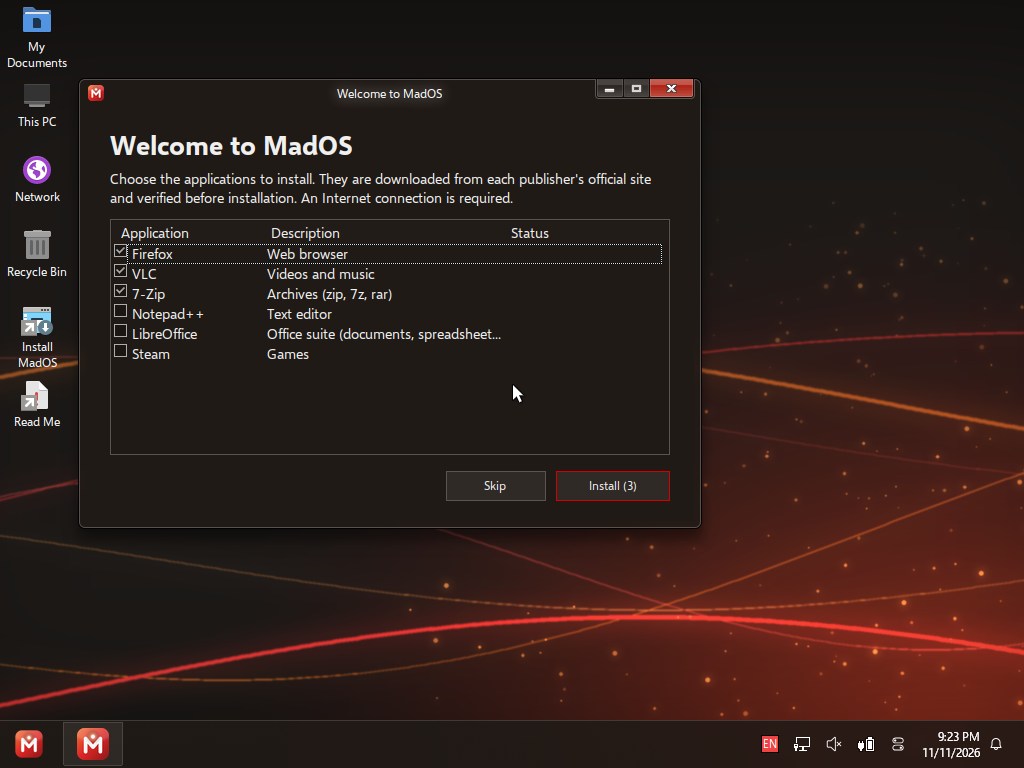
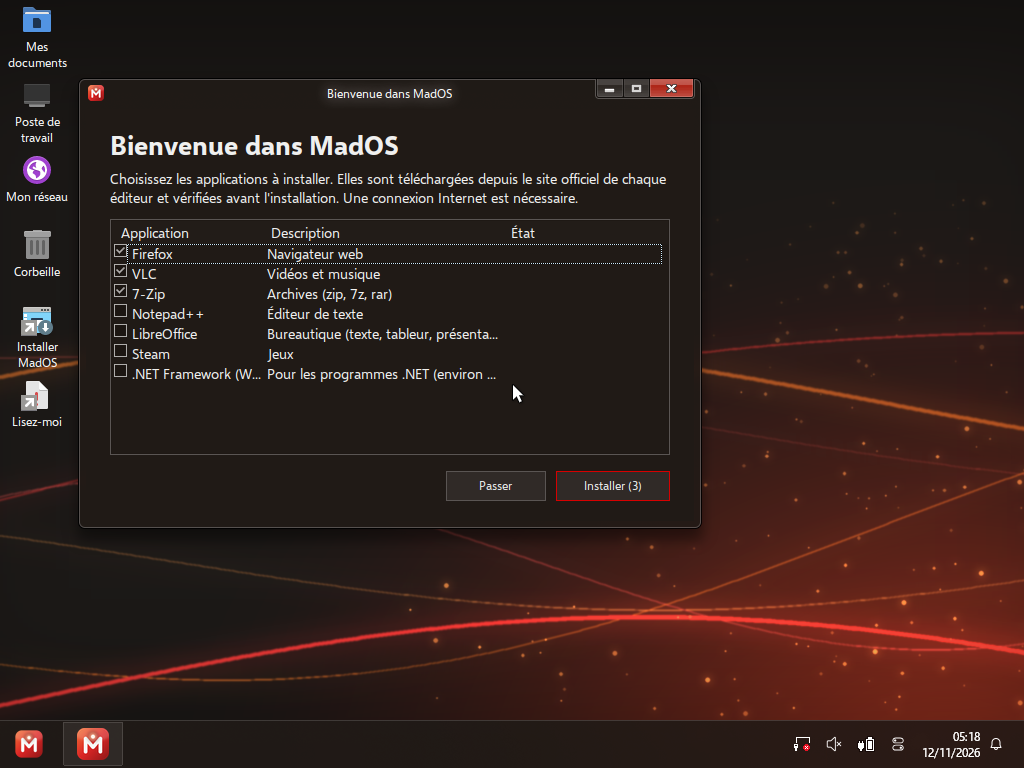
[MADOS] README : mode clair, francais, .NET, VirtIO, section anglaise

diff --git a/README.md b/README.md
@@ -21,13 +21,18 @@ Windows en 64 bits) et y ajoute sa propre expérience :
   un rapport de diagnostic (matériel, identifiants des périphériques…).
   Dans MadOS, c'est coupé par défaut ; vous pouvez l'activer dans le panneau
   Système, avec un texte qui dit exactement ce qui part et où.
-- **En français par défaut**, avec le clavier AZERTY (une autre langue reste
-  au choix à l'installation).
+- **En français dès le premier écran**, avec le clavier AZERTY : bureau,
+  menu Démarrer, applications. Une autre langue reste au choix à
+  l'installation.
+- **Mode sombre « Braise » ou clair « Lumière »**, au choix dans
+  *Apparence* (menu Démarrer), appliqué instantanément.
 - **« Bienvenue dans MadOS »** : au premier démarrage, cochez les applications
-  que vous voulez (Firefox, VLC, 7-Zip, Notepad++, LibreOffice, Steam). Elles
-  sont téléchargées depuis le site officiel de chaque éditeur et **vérifiées
-  avant l'installation** (signature numérique de l'éditeur, ou empreinte
-  SHA-256). Rien n'est préinstallé de force.
+  que vous voulez (Firefox, VLC, 7-Zip, Notepad++, LibreOffice, Steam, .NET).
+  Elles sont téléchargées depuis le site officiel de chaque éditeur et
+  **vérifiées avant l'installation** (signature numérique de l'éditeur, ou
+  empreinte SHA-256). Rien n'est préinstallé de force.
+- **Prêt pour les machines virtuelles** : disque VirtIO (QEMU, KVM, Proxmox),
+  OpenGL et Vulkan logiciels (Mesa) installables au premier démarrage.
 - **Plus rapide à démarrer** : le menu de démarrage ne fait plus attendre
   3 secondes ; appuyez sur une touche (F8…) pendant le démarrage pour l'ouvrir.
 - **Plus stable** : correction d'une condition de course dans le chargeur de
@@ -39,6 +44,8 @@ Windows en 64 bits) et y ajoute sa propre expérience :
 | Installation en français | Choix des applications |
 | <img src="media/mados/screenshots/menu-demarrer.png" alt="Menu Démarrer" width="380"> | <img src="media/mados/screenshots/menu-demarrage.png" alt="Menu de démarrage" width="380"> |
 | Menu Démarrer | Menu de démarrage (sur demande) |
+| <img src="media/mados/screenshots/mode-clair.png" alt="Mode clair Lumière" width="380"> | <img src="media/mados/screenshots/a-propos.png" alt="À propos de MadOS" width="380"> |
+| Mode clair « Lumière » | À propos de MadOS |
 
 ## Essayer MadOS
 
@@ -65,8 +72,9 @@ Téléchargez la dernière version dans
 | Taille installée | ~510 Mo |
 
 Applications testées (installation et lancement) : Firefox, VLC, 7-Zip,
-Notepad++, LibreOffice, Steam. Discord ne s'installe pas encore (il exige le
-.NET Framework 4.5).
+Notepad++, LibreOffice, Steam. Discord exige le .NET Framework 4.5 : il est
+maintenant proposé dans « Bienvenue » (Wine Mono), mais pas encore testé avec
+Discord.
 
 ## Construire MadOS
 
@@ -95,8 +103,21 @@ commits séparés, pour pouvoir être repris par LiberNT.
 
 ---
 
-**English.** MadOS is a free NT operating system based on LiberNT and ReactOS,
-with its own "Ember" look, diagnostic data off by default, French by default,
-a first-run app picker that downloads and verifies applications from their
-publishers, and a few fixes (loader race, release build). Experimental: try it
-in a virtual machine. GPL-3.0.
+## English
+
+MadOS is a free NT operating system based on [LiberNT](https://github.com/LiberNT/LiberNT)
+and [ReactOS](https://reactos.org). **Experimental: try it in a virtual machine.**
+
+- Its own "Ember" look (dark) and a "Light" mode, switchable in *Apparence*.
+- **Nothing is sent without your consent**: LiberNT's boot-time diagnostic
+  report is off by default and can be turned on in System properties.
+- French and AZERTY by default (other languages can be picked during setup).
+- "Welcome to MadOS": a first-run app picker that downloads applications from
+  each publisher and **verifies them before installing** (publisher signature
+  or SHA-256).
+- VirtIO disk driver, software OpenGL/Vulkan (Mesa), faster boot menu, and a
+  DLL loader race fix.
+
+Downloads: [Releases](../../releases) — `.vhd` (ready-made VirtualBox disk,
+EFI, 4 GB RAM), `.iso` (installer), `.img.xz` (USB stick, written with Rufus or
+balenaEtcher). GPL-3.0.
